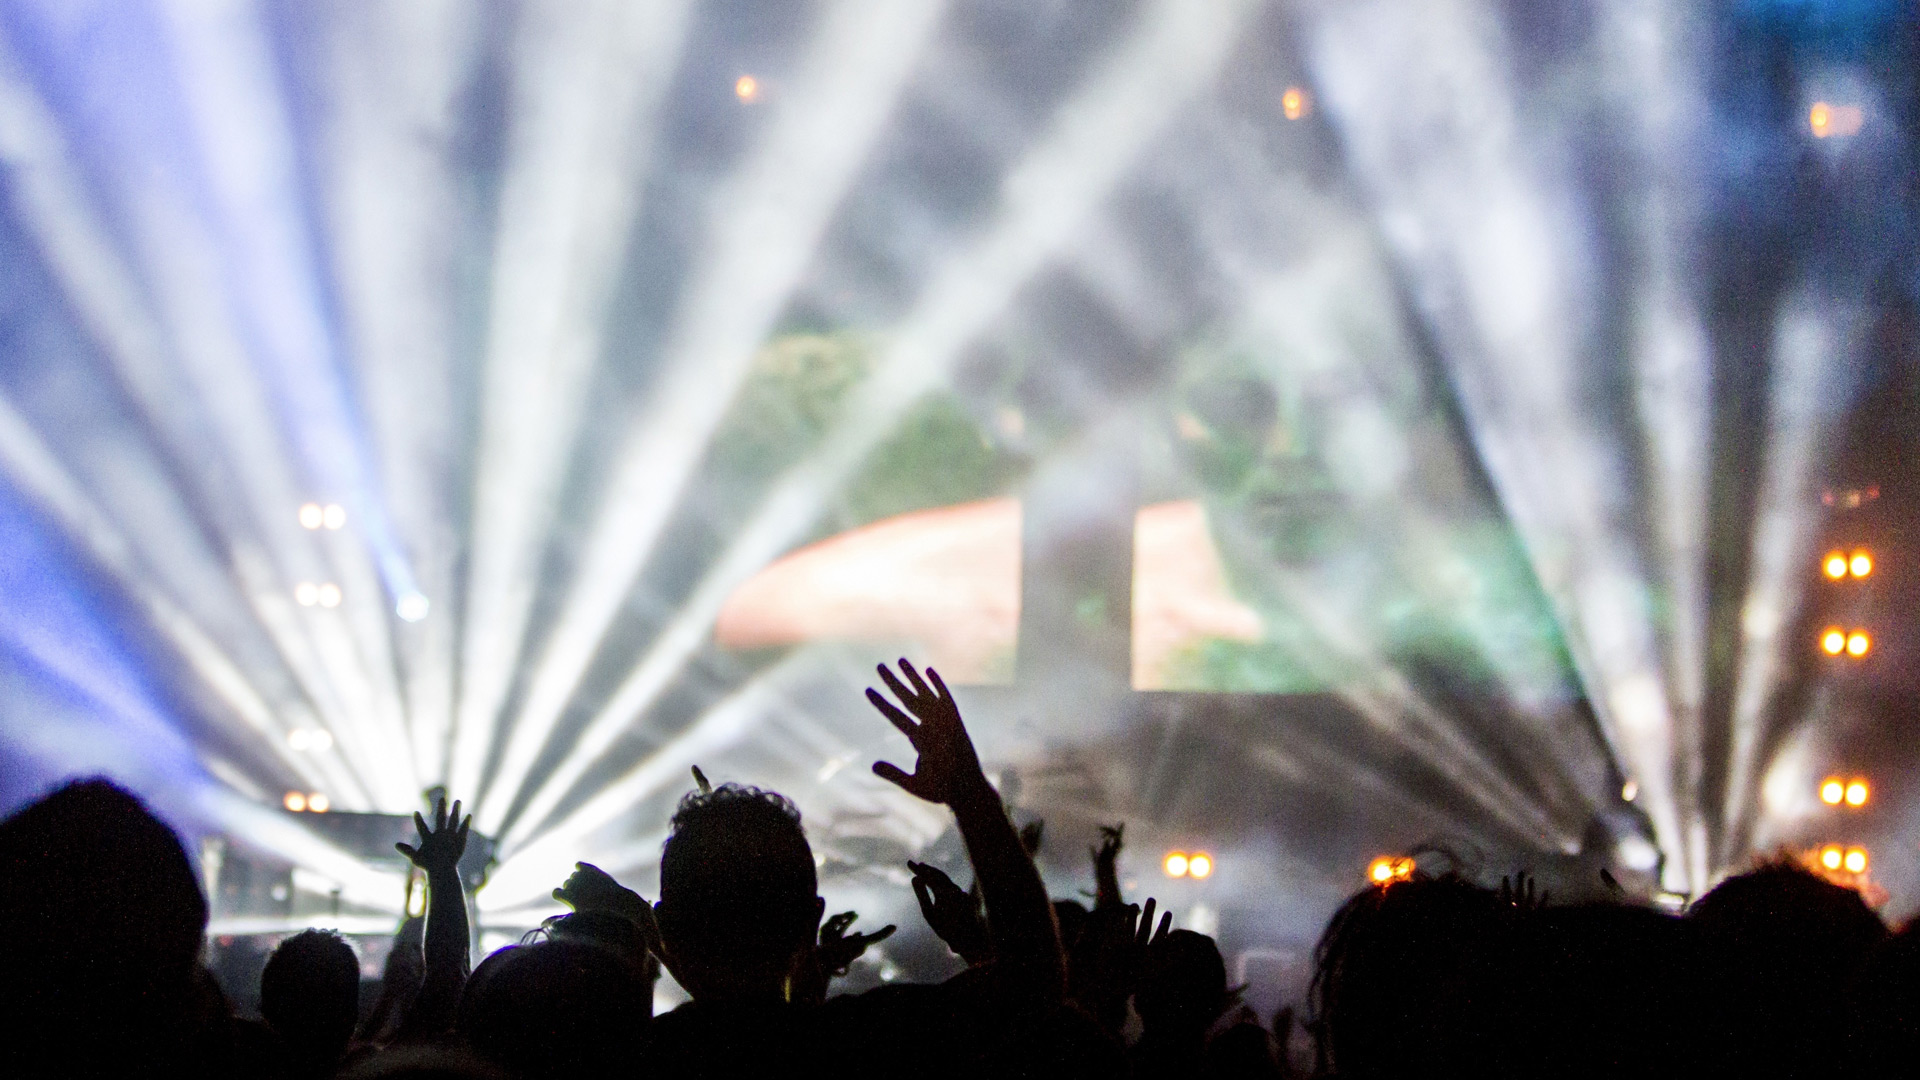
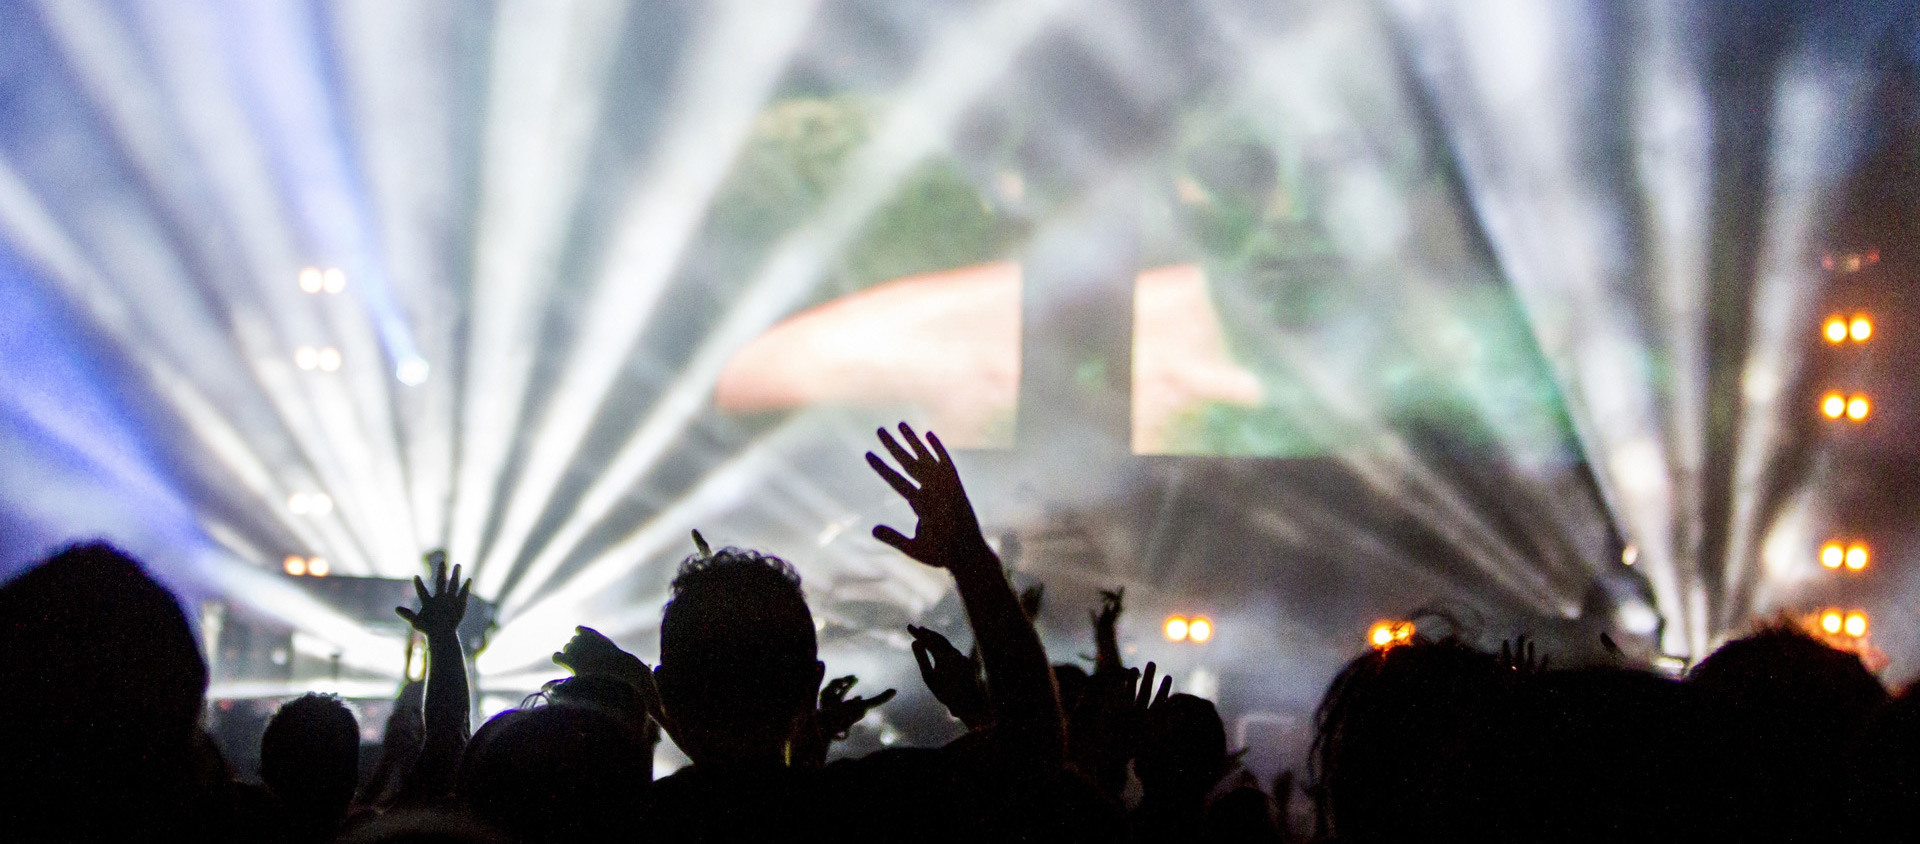
css

diff --git a/dashpackage/assets/typography.css b/dashpackage/assets/typography.css
@@ -1,0 +1,14 @@
+body {
+    font-family: "Lucida Console", Monaco, monospace;
+}
+h1, h2, h3, h4, h5, h6 {
+    color: black;
+    text-align: center;
+}
+h1::before  {
+  content: "🤘 ";
+}
+
+h1::after {
+  content: " 🤘";
+}

diff --git a/dashpackage/dashboard.py b/dashpackage/dashboard.py
@@ -12,9 +12,9 @@ app.config['suppress_callback_exceptions']=True
 
 
 app.layout = html.Div(children=[
-            html.Img(src='/assets/pic11.jpg'),
-            html.H1("NYC Concert Database"),
-
+            html.Div(className="app-header", children=[
+            html.Img(src='/assets/pic10.jpg'),
+            html.H1("Kids Just Want to Dance! - An NYC Concert Database")]),
             dcc.Tabs(id="tabs", value="tab-1", children=[
         dcc.Tab(label='Top Genres', value='tab-1'),
         dcc.Tab(label='Average Price by Neighborhood', value='tab-2'),

diff --git a/dashpackage/__init__.py b/dashpackage/__init__.py
@@ -10,7 +10,7 @@ external_stylesheets = ['https://codepen.io/chriddyp/pen/bWLwgP.css']
 
 db = SQLAlchemy(server)
 
-app = dash.Dash(__name__, server=server, url_base_pathname='/dashboard/', external_stylesheets=external_stylesheets)
+app = dash.Dash(__name__, server=server, url_base_pathname='/dashboard/')
 
 from dashpackage.models import *
 from dashpackage.routes import *
